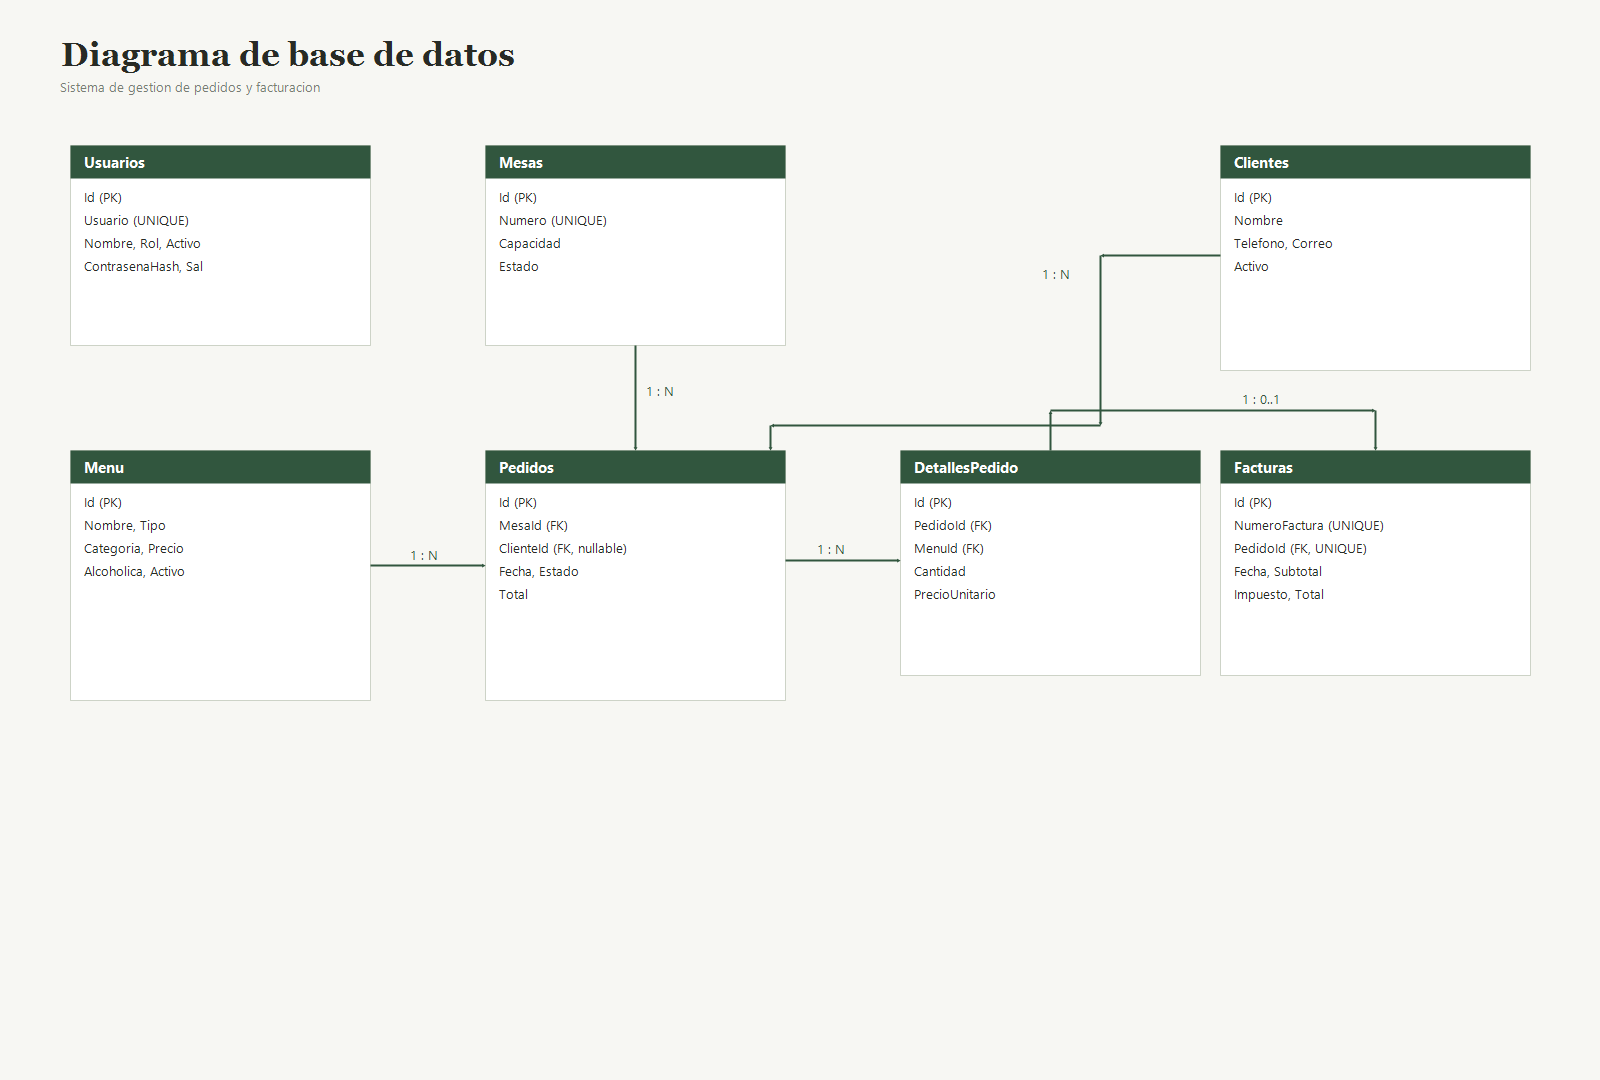
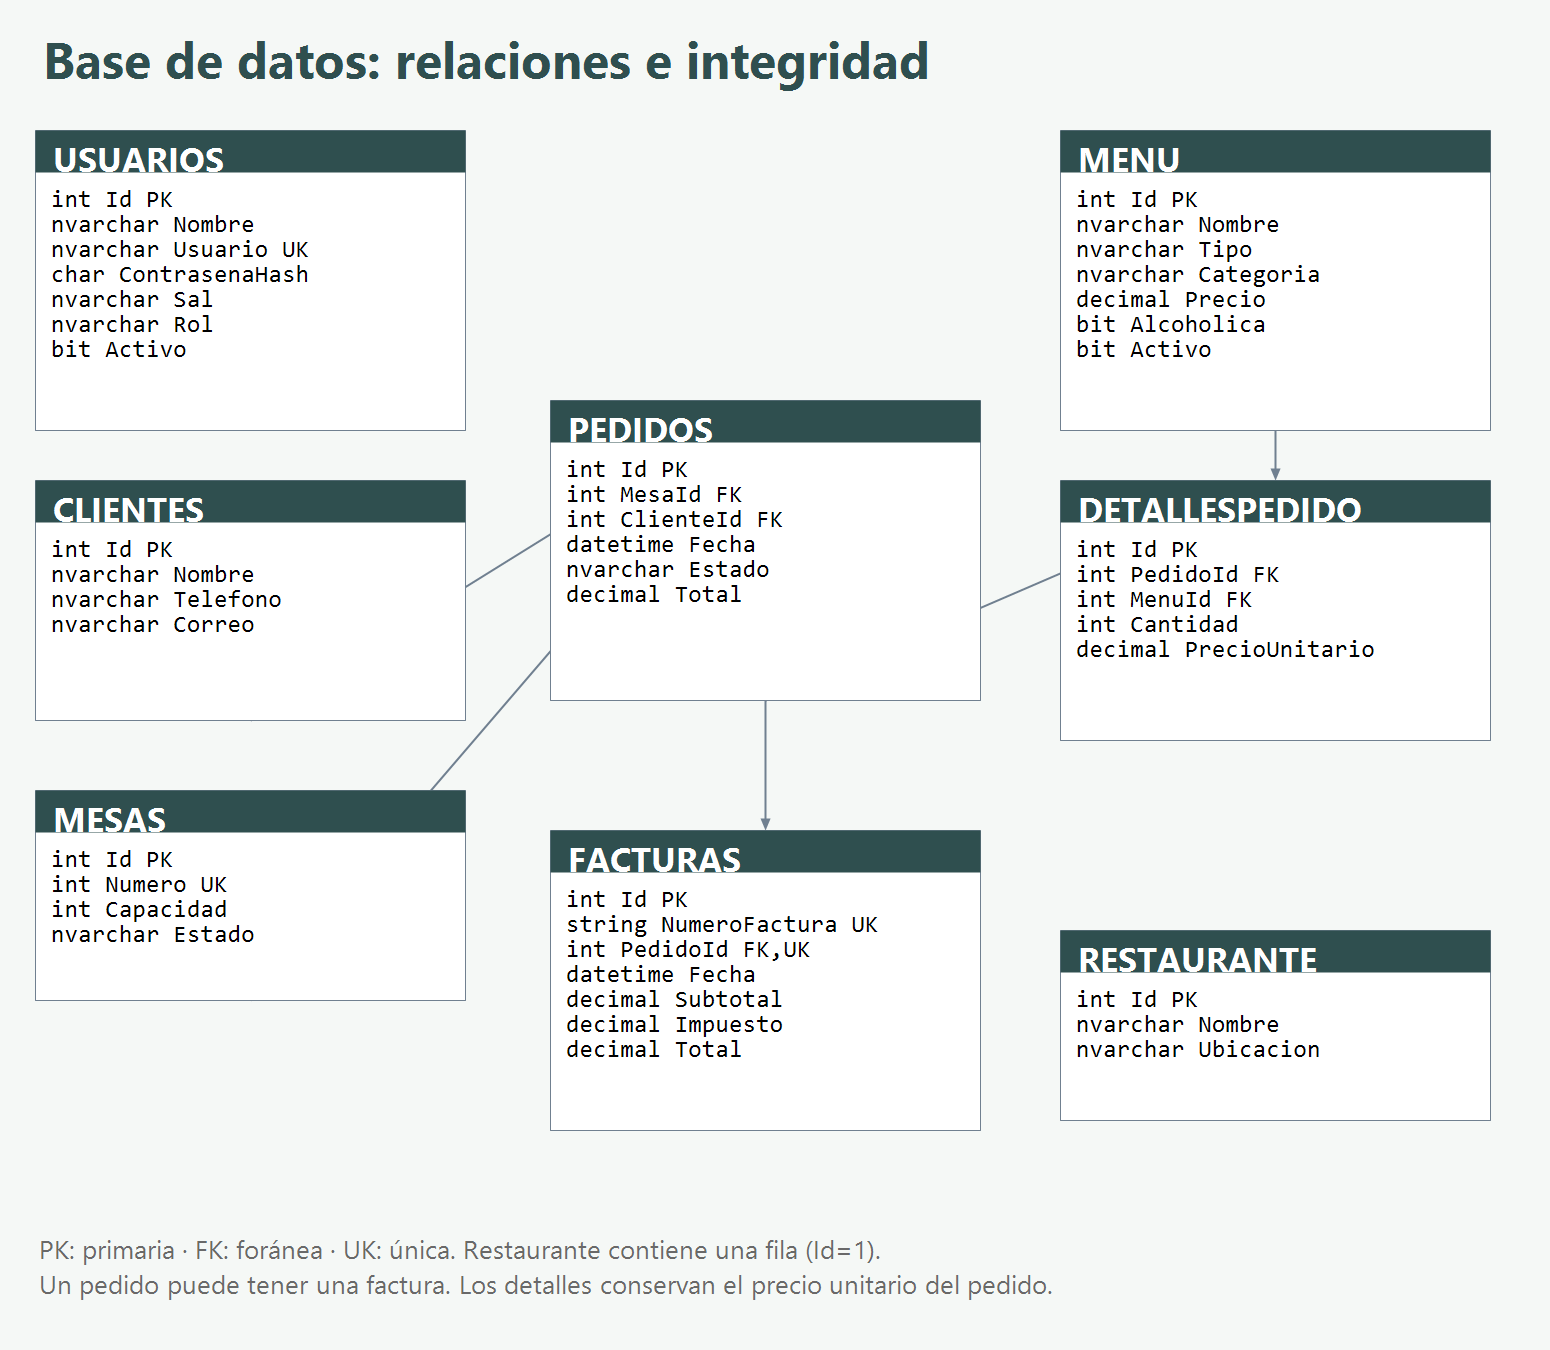
Documentar instalación, migración, pruebas y reversión

diff --git a/restaurante2/README.md b/restaurante2/README.md
@@ -1,47 +1,81 @@
-# Sabores — sistema de gestión de restaurante
+# Sabores — gestión de restaurante
 
-Solución .NET con exactamente dos proyectos:
+Aplicación C# Windows Forms sobre .NET 8 para mesas, clientes, menú, pedidos, facturación y reportes. La solución contiene dos proyectos: `Restaurante.Frontend` y `Restaurante.Backend`.
 
-- `Restaurante.Frontend`: aplicación de escritorio Windows Forms (`net8.0-windows`).
-- `Restaurante.Backend`: biblioteca de clases con dominio, interfaces, conexión y operaciones SQL.
+## Abrir y preparar
 
-El acceso SQL es síncrono con `SqlConnection`, `SqlCommand` y `SqlDataReader`; no utiliza métodos asíncronos, Entity Framework, `DataAdapter` ni `DataSet`.
+La raíz del repositorio contiene la carpeta `restaurante2`; abra `restaurante2/Restaurante.sln`, no una copia anterior de la solución.
 
-## Inicio rápido
+Requisitos: Windows, Visual Studio con desarrollo de escritorio .NET, SDK .NET 8 o posterior y SQL Server. Para compilar desde consola:
 
-1. Ejecuta `BaseDatos\CrearBaseDatos.sql` en SQL Server Management Studio.
-2. Abre `Restaurante.sln` en Visual Studio y ejecuta el proyecto `Restaurante.Frontend`.
-3. Inicia la configuración inicial con `admin` / `Admin123!`.
-4. En **Administración → Conexión SQL**, configura la **IP del servidor**, el puerto (1433 por defecto), el nombre de base de datos, usuario SQL y contraseña. La aplicación prueba la conexión antes de guardarla.
-5. Inicia sesión nuevamente con el usuario `admin` creado en la base de datos.
-
-Las credenciales se protegen con DPAPI en el perfil del usuario de Windows.
-
-Ejemplo de cadena de conexión:
-
-```text
-Server=192.168.1.100,1433;Database=RestauranteDB;User Id=restaurante_app;Password=TuClaveSegura;Encrypt=True;TrustServerCertificate=True;
+```powershell
+dotnet restore restaurante2/Restaurante.sln
+dotnet build restaurante2/Restaurante.sln --no-restore
 ```
 
-El ejemplo es ilustrativo: reemplaza IP, usuario y contraseña con los de tu servidor. Para autenticación de Windows deja vacío el usuario SQL. En producción crea un login SQL de mínimo privilegio; no uses la cuenta `sa`.
+**Instalación nueva:** ejecute `BaseDatos/CrearBaseDatos.sql` en SQL Server. Crea `RestauranteDB`, las tablas y datos iniciales, incluida la estructura de la versión 2.
 
-## Funcionalidades
+**Base existente:** haga un respaldo, seleccione explícitamente la base correspondiente y ejecute `BaseDatos/Migracion_002.sql`. La aplicación no ejecuta migraciones automáticamente. El script es transaccional e idempotente; ante duplicados o datos inválidos aborta y explica la causa, sin borrar registros. Si cambia el nombre de la base en una instalación nueva, adapte las referencias `RestauranteDB` del script antes de ejecutarlo.
 
-- Inicio y cierre de sesión, con rol administrador.
-- Panel de ventas, pedidos, mesas y productos.
-- Consulta de mesas, clientes, menú y pedidos.
-- Gestión completa de mesas: crear, editar, visualizar y eliminar (sin borrar mesas con pedidos asociados).
-- Registro transaccional de pedidos abiertos, agregar platos o bebidas al pedido desde el detalle de la mesa y facturar/liberar la mesa cuando se retiren los comensales.
-- Reportes de ventas por fecha y productos más vendidos.
-- Configuración administrativa de la conexión SQL Server.
+El script configura las opciones SET requeridas por índices filtrados y la columna calculada del número de factura. La cuenta utilizada para migrar necesita permisos DDL; la cuenta de operación no necesita esos permisos.
 
-Para atender una mesa, abre un pedido desde **Pedidos y facturas**; la factura no se genera al iniciarlo. En **Menú y mesas → Mesas → Visualizar** puedes añadir bebidas y platillos al pedido abierto. Cuando los comensales se retiren, pulsa **Facturar y liberar mesa** en el detalle de la mesa o factura el pedido seleccionado desde la lista. Se genera una sola factura y la mesa vuelve a estar disponible.
+## Primer acceso y conexión
 
-`ElementoMenu` es una clase abstracta; `Plato` y `Bebida` heredan y permiten polimorfismo. Las interfaces de conexión y repositorio separan la UI de la biblioteca backend.
+Sin conexión guardada se permite la configuración inicial con `admin` / `Admin123!`. Desde **Conexión SQL**, indique servidor, puerto, base de datos y credenciales; dejar vacío el usuario SQL habilita autenticación de Windows. Después de guardar, debe ingresar otra vez y autenticarse contra la base. El script crea el usuario inicial `admin` con esa contraseña; cámbiela en la base antes de utilizar datos reales. Utilice un usuario SQL de mínimo privilegio, no `sa`.
 
-## Diagramas y diseño
+La conexión se guarda mediante DPAPI en el perfil de Windows. Si el archivo está dañado o no puede descifrarse, el programa avisa y permite reconfigurarlo. Una conexión que abre correctamente no garantiza que el esquema esté actualizado: aplique primero la migración.
 
-- `Diagramas\DiagramaBaseDatos.mmd`: diagrama entidad-relación Mermaid, editable en draw.io.
-- `Diagramas\DiagramaClases.mmd`: diagrama de clases Mermaid, editable en draw.io.
-- `Diagramas\DiagramaBaseDatos.png` y `Diagramas\DiagramaClases.png`: exportaciones PNG.
-- `Diagramas\MockupFigma.svg`: mockup vectorial editable al importarlo en Figma; no es un archivo binario `.fig`.
+## Operación
+
+- **Clientes y productos:** registrar, editar y desactivar. No se borran pedidos ni facturas al desactivar. Los clientes activos no pueden compartir un correo no nulo; los productos activos no pueden repetir nombre, tipo y categoría. Se permiten clientes diferentes con el mismo nombre.
+- **Restaurante:** el administrador configura nombre y ubicación desde el selector de esa misma pantalla. Estos datos se almacenan en SQL y aparecen en el título principal.
+- **Menú y mesas:** consultar menú; crear, editar, visualizar y eliminar mesas sin historial. Una mesa con pedidos asociados no se elimina.
+- **Pedidos y facturas:** seleccionar mesa disponible, producto, cantidad y cliente o **Público general**. Abrir el pedido no lo factura.
+- **Detalle de mesa:** agregar productos; al terminar, **Facturar y liberar mesa**. Las cantidades van de 1 a 50 por operación. Los precios se guardan por detalle, conservando su importe aunque posteriormente cambie el precio del menú.
+- **Cortesías:** precio cero permitido. Un pedido con detalles puede facturarse por total cero y libera la mesa. Un pedido vacío no puede facturarse. No se agregaron impuestos no especificados: el impuesto sigue siendo cero.
+- **Cerrar sesión:** regresa al acceso para iniciar otra sesión. Cerrar la ventana principal termina el programa.
+
+Las aperturas y cambios de estado bloquean la fila de mesa dentro de una transacción. La facturación bloquea el pedido y además existe una restricción única por pedido. Antes de facturar se comprueba que el total coincida con los detalles. No se agregan productos a pedidos cerrados.
+
+## Reportes
+
+El intervalo incluye ambos días. Una fecha inicial posterior a la final se rechaza.
+
+- Ventas por día, semana o mes, calculadas sobre facturas. Las semanas comienzan el lunes; su etiqueta es la fecha de ese lunes, incluso si pertenece al año anterior. Los meses se identifican por su primer día. Las agrupaciones se limitan siempre al intervalo seleccionado.
+- Los diez platos más vendidos incluyen únicamente platos de pedidos facturados, por fecha de factura y por identificador de producto. Se excluyen bebidas, pedidos abiertos y cancelados.
+- Pedidos por mesa y cliente: se filtran por fecha del pedido; incluyen estados y facturas. El selector incluye clientes inactivos para consultar su historial y público general. Por eso este reporte no debe sumarse como si todos sus pedidos fueran ventas facturadas.
+- Los filtros se actualizan al cambiar; la lista operativa ya no oculta pedidos abiertos por un límite de 100 registros.
+
+Los cálculos son `decimal`. Las consultas SQL del repositorio conservan conexiones independientes y recursos `using`. La interfaz ejecuta esas operaciones en tareas de fondo y aplica sus resultados en el hilo de Windows Forms.
+
+## Organización y POO
+
+Cada clase, record e interfaz tiene un archivo propio. Los formularios usan `.cs` y `.Designer.cs` parciales, con constructor sin argumentos para diseño y constructor con dependencias para ejecución. Las consultas no se ejecutan en el constructor de diseño. No se necesitan `.resx` porque actualmente no hay recursos localizados ni binarios asociados a controles.
+
+`ElementoMenu` es abstracta; `Plato` y `Bebida` implementan `Tipo`. El repositorio construye ambos como `ElementoMenu` y utiliza su cálculo monetario. Las interfaces `IRepositorioRestaurante` e `IConfiguracionConexion` separan consumidores e implementaciones. `ReglasRestaurante` centraliza validaciones y límites temporales. SQL permanece en el Backend.
+
+Los diagramas editables están en `Diagramas/DiagramaClases.mmd` y `Diagramas/DiagramaBaseDatos.mmd`; las imágenes PNG son vistas generales de sus relaciones. `MockupFigma.svg` es una referencia de diseño previa, no una captura de la versión actual.
+
+## Pruebas reproducibles
+
+```powershell
+# Reglas y construcción de formularios, sin base de datos:
+./restaurante2/Pruebas/Verificar.ps1
+
+# Integración completa en una base NUEVA y aislada de LocalDB:
+./restaurante2/Pruebas/Verificar.ps1 -ConSql
+```
+
+Se necesita la instancia `(localdb)\MSSQLLocalDB` y `sqlcmd` para la segunda opción. Cada ejecución crea una base `Restaurante_Pruebas_<fecha>_<id>`, repite la migración y conserva la base para inspección. No utiliza ni altera `RestauranteDB`. El ejecutor temporal, resultados e imágenes se guardan en `.codex-build`, excluido de Git; la solución entregada conserva dos proyectos.
+
+Se verifican cálculos, validaciones, configuración dañada, formularios, mantenimiento, duplicados, rollback, concurrencia, cortesías, historial, filtros y reconciliación de reportes. El render de formularios no equivale a abrirlos en el diseñador de Visual Studio; esa apertura y una revisión manual en varios monitores siguen siendo comprobaciones de entrega.
+
+## Revertir
+
+La rama de correcciones es `correcciones/revision-restaurante`; `main` conserva el punto de partida `90868cb`.
+
+Con el árbol limpio, `git switch main` permite volver a esa versión. Para deshacer un commit manteniendo historial: `git revert <hash>`. No use `reset --hard` para recuperar cambios.
+
+**Git no revierte SQL.** Antes de migrar una base real, obtenga un respaldo completo con SQL Server y verifique una restauración en otra base. Si necesita regresar de versión, restaure ese respaldo en una base separada y apunte la versión anterior a ella. Considere los datos nuevos registrados después del respaldo antes de decidir una recuperación. No se proporciona un script de borrado de tablas como reversión automática.
+
+No se incluyen el informe académico, video ni enlaces de entrega: deben incorporarse como entregables del grupo.
